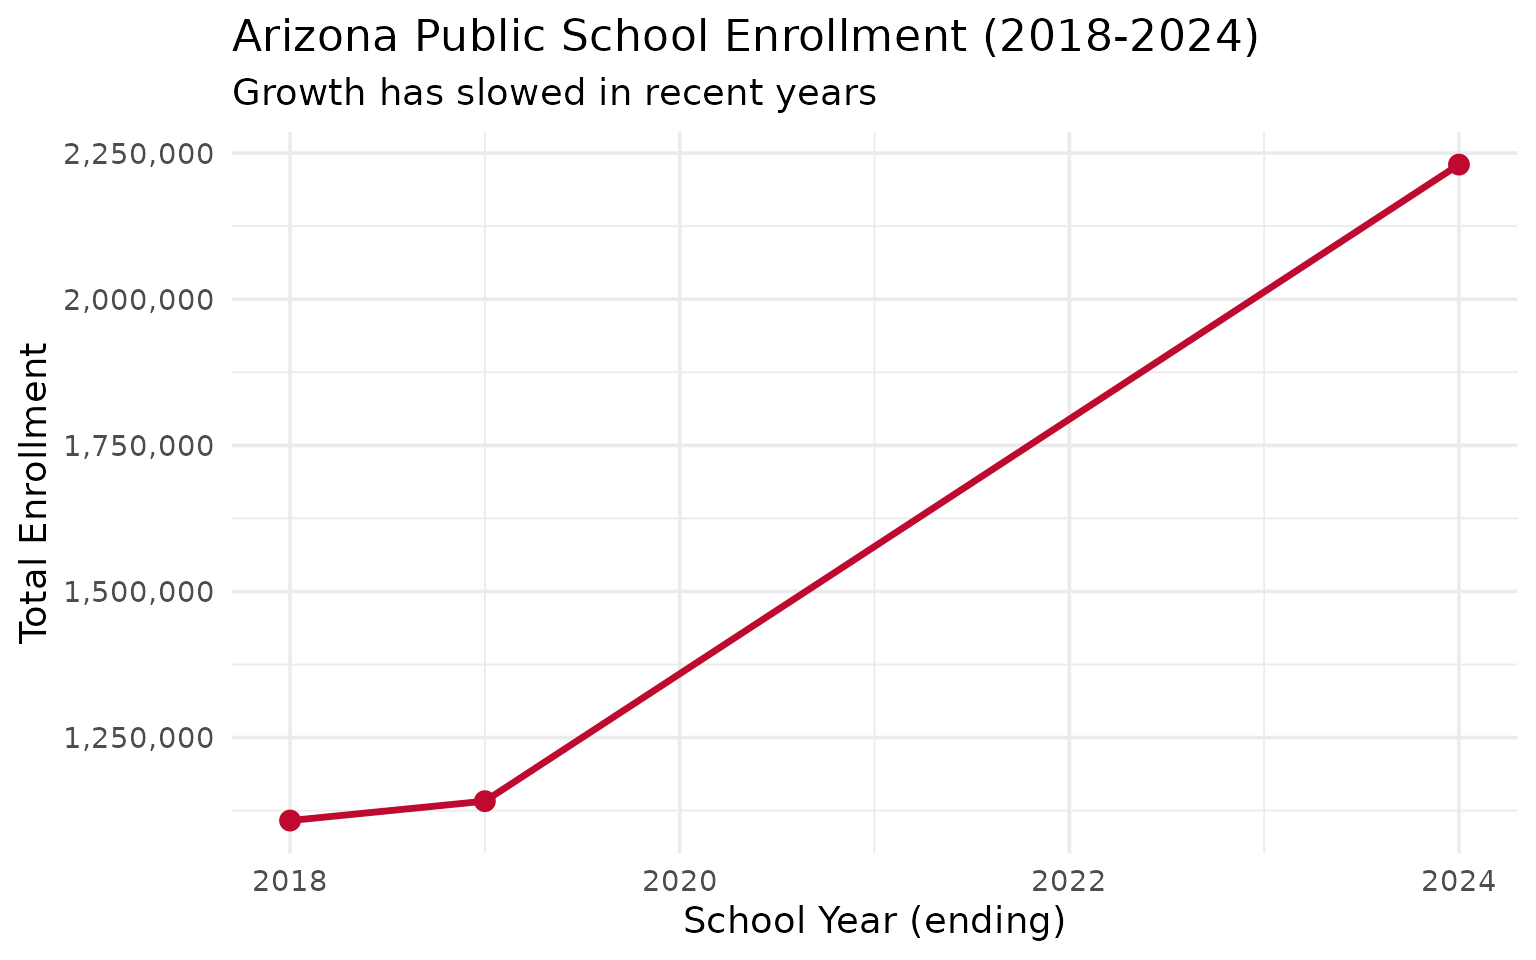
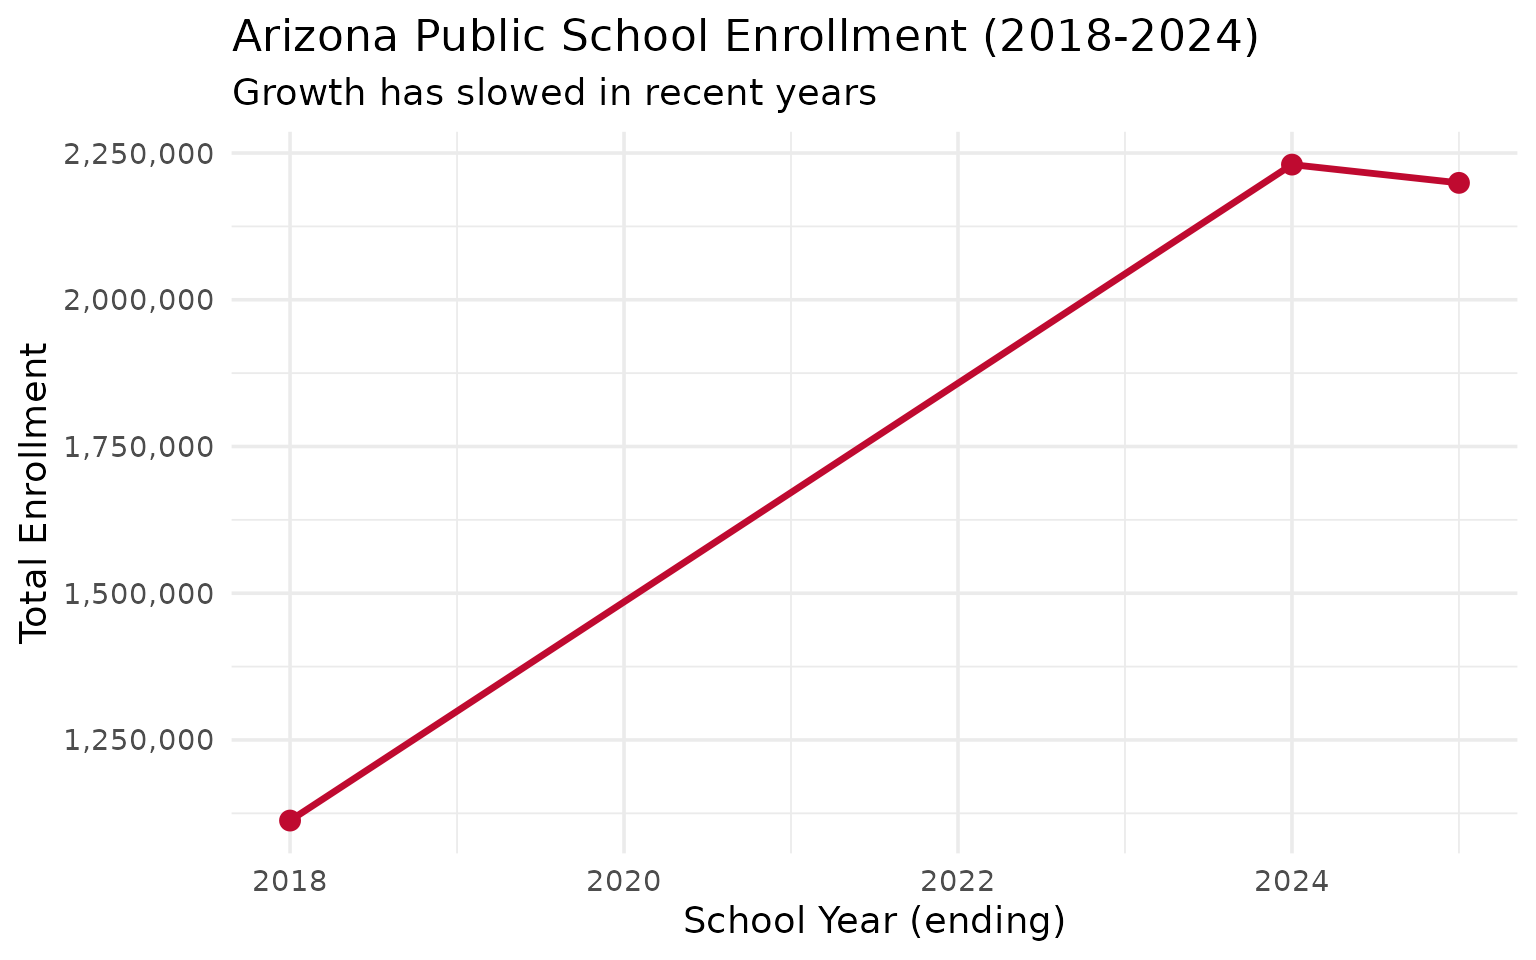
Deploying to gh-pages from @ almartin82/azschooldata@f649c9d4ab868ab28faf0e139d4a64b1dc54043c 🚀

diff --git a/articles/enrollment_simple.html b/articles/enrollment_simple.html
@@ -73,15 +73,15 @@
 <span><span class="fu"><a href="https://ggplot2.tidyverse.org/reference/get_theme.html" class="external-link">theme_set</a></span><span class="op">(</span><span class="fu"><a href="https://ggplot2.tidyverse.org/reference/ggtheme.html" class="external-link">theme_minimal</a></span><span class="op">(</span>base_size <span class="op">=</span> <span class="fl">14</span><span class="op">)</span><span class="op">)</span></span></code></pre></div>
 <p>This vignette explores Arizona’s public school enrollment data.</p>
 <blockquote>
-<p><strong>Note:</strong> Currently available for years 2018, 2019, and
-2024 only.</p>
+<p><strong>Note:</strong> Currently available for years 2018, 2024, and
+2025. Years 2019-2023 are not available as Excel downloads.</p>
 </blockquote>
 <hr>
 <div class="section level2">
 <h2 id="statewide-enrollment-trends">Statewide Enrollment Trends<a class="anchor" aria-label="anchor" href="#statewide-enrollment-trends"></a>
 </h2>
 <div class="sourceCode" id="cb2"><pre class="downlit sourceCode r">
-<code class="sourceCode R"><span><span class="va">enr</span> <span class="op">&lt;-</span> <span class="fu"><a href="../reference/fetch_enr_multi.html">fetch_enr_multi</a></span><span class="op">(</span><span class="fu"><a href="https://rdrr.io/r/base/c.html" class="external-link">c</a></span><span class="op">(</span><span class="fl">2018</span>, <span class="fl">2019</span>, <span class="fl">2024</span><span class="op">)</span><span class="op">)</span></span>
+<code class="sourceCode R"><span><span class="va">enr</span> <span class="op">&lt;-</span> <span class="fu"><a href="../reference/fetch_enr_multi.html">fetch_enr_multi</a></span><span class="op">(</span><span class="fu"><a href="https://rdrr.io/r/base/c.html" class="external-link">c</a></span><span class="op">(</span><span class="fl">2018</span>, <span class="fl">2024</span>, <span class="fl">2025</span><span class="op">)</span><span class="op">)</span></span>
 <span></span>
 <span><span class="va">state_totals</span> <span class="op">&lt;-</span> <span class="va">enr</span> <span class="op">|&gt;</span></span>
 <span>  <span class="fu"><a href="https://dplyr.tidyverse.org/reference/filter.html" class="external-link">filter</a></span><span class="op">(</span><span class="va">is_state</span>, <span class="va">subgroup</span> <span class="op">==</span> <span class="st">"total_enrollment"</span>, <span class="va">grade_level</span> <span class="op">==</span> <span class="st">"TOTAL"</span><span class="op">)</span> <span class="op">|&gt;</span></span>
@@ -91,9 +91,9 @@
 <span></span>
 <span><span class="va">state_totals</span></span>
 <span><span class="co">#&gt;   end_year n_students  change pct_change</span></span>
-<span><span class="co">#&gt; 1     2018    1108023      NA         NA</span></span>
-<span><span class="co">#&gt; 2     2019    1141209   33186       3.00</span></span>
-<span><span class="co">#&gt; 3     2024    2230271 1089062      95.43</span></span></code></pre></div>
+<span><span class="co">#&gt; 1     2018    1112682      NA         NA</span></span>
+<span><span class="co">#&gt; 2     2024    2230271 1117589     100.44</span></span>
+<span><span class="co">#&gt; 3     2025    2199141  -31130      -1.40</span></span></code></pre></div>
 <div class="sourceCode" id="cb3"><pre class="downlit sourceCode r">
 <code class="sourceCode R"><span><span class="fu"><a href="https://ggplot2.tidyverse.org/reference/ggplot.html" class="external-link">ggplot</a></span><span class="op">(</span><span class="va">state_totals</span>, <span class="fu"><a href="https://ggplot2.tidyverse.org/reference/aes.html" class="external-link">aes</a></span><span class="op">(</span>x <span class="op">=</span> <span class="va">end_year</span>, y <span class="op">=</span> <span class="va">n_students</span><span class="op">)</span><span class="op">)</span> <span class="op">+</span></span>
 <span>  <span class="fu"><a href="https://ggplot2.tidyverse.org/reference/geom_path.html" class="external-link">geom_line</a></span><span class="op">(</span>linewidth <span class="op">=</span> <span class="fl">1.2</span>, color <span class="op">=</span> <span class="st">"#BF0A30"</span><span class="op">)</span> <span class="op">+</span></span>
@@ -119,11 +119,11 @@
 <span></span>
 <span><span class="va">gender_by_year</span></span>
 <span><span class="co">#&gt; <span style="color: #949494;"># A tibble: 3 × 3</span></span></span>
-<span><span class="co">#&gt;   end_year  male  female</span></span>
-<span><span class="co">#&gt;      <span style="color: #949494; font-style: italic;">&lt;dbl&gt;</span> <span style="color: #949494; font-style: italic;">&lt;dbl&gt;</span>   <span style="color: #949494; font-style: italic;">&lt;dbl&gt;</span></span></span>
-<span><span class="co">#&gt; <span style="color: #BCBCBC;">1</span>     <span style="text-decoration: underline;">2</span>018     0 1<span style="text-decoration: underline;">485</span>248</span></span>
-<span><span class="co">#&gt; <span style="color: #BCBCBC;">2</span>     <span style="text-decoration: underline;">2</span>019     0 1<span style="text-decoration: underline;">467</span>813</span></span>
-<span><span class="co">#&gt; <span style="color: #BCBCBC;">3</span>     <span style="text-decoration: underline;">2</span>024     0 1<span style="text-decoration: underline;">305</span>480</span></span></code></pre></div>
+<span><span class="co">#&gt;   end_year    male  female</span></span>
+<span><span class="co">#&gt;      <span style="color: #949494; font-style: italic;">&lt;dbl&gt;</span>   <span style="color: #949494; font-style: italic;">&lt;dbl&gt;</span>   <span style="color: #949494; font-style: italic;">&lt;dbl&gt;</span></span></span>
+<span><span class="co">#&gt; <span style="color: #BCBCBC;">1</span>     <span style="text-decoration: underline;">2</span>018  <span style="text-decoration: underline;">570</span>750  <span style="text-decoration: underline;">541</span>889</span></span>
+<span><span class="co">#&gt; <span style="color: #BCBCBC;">2</span>     <span style="text-decoration: underline;">2</span>024 1<span style="text-decoration: underline;">136</span>269 1<span style="text-decoration: underline;">093</span>826</span></span>
+<span><span class="co">#&gt; <span style="color: #BCBCBC;">3</span>     <span style="text-decoration: underline;">2</span>025 1<span style="text-decoration: underline;">119</span>644 1<span style="text-decoration: underline;">079</span>300</span></span></code></pre></div>
 <div class="sourceCode" id="cb5"><pre class="downlit sourceCode r">
 <code class="sourceCode R"><span><span class="va">enr</span> <span class="op">|&gt;</span></span>
 <span>  <span class="fu"><a href="https://dplyr.tidyverse.org/reference/filter.html" class="external-link">filter</a></span><span class="op">(</span><span class="va">is_state</span>, <span class="va">grade_level</span> <span class="op">==</span> <span class="st">"TOTAL"</span>,</span>
@@ -147,9 +147,10 @@
 </h2>
 <p>This package uses data from the Arizona Department of Education
 October 1 enrollment reports.</p>
-<p><strong>Currently available years:</strong> 2018, 2019, 2024</p>
-<p><strong>Planned years:</strong> 2020-2023 (Cloudflare protection
-preventing automated downloads)</p>
+<p><strong>Currently available years:</strong> 2018, 2024, 2025</p>
+<p><strong>Missing years:</strong> 2019-2023 (Excel files not available
+as automated downloads - Cloudflare protection blocks programmatic
+access)</p>
 <p><strong>Data included:</strong> - State totals by grade level and
 gender - District and school totals - County-level aggregates</p>
 <p>For more information, see the package README and function

diff --git a/articles/enrollment_simple.md b/articles/enrollment_simple.md
@@ -11,14 +11,15 @@ theme_set(theme_minimal(base_size = 14))
 
 This vignette explores Arizona’s public school enrollment data.
 
-> **Note:** Currently available for years 2018, 2019, and 2024 only.
+> **Note:** Currently available for years 2018, 2024, and 2025. Years
+> 2019-2023 are not available as Excel downloads.
 
 ------------------------------------------------------------------------
 
 ## Statewide Enrollment Trends
 
 ``` r
-enr <- fetch_enr_multi(c(2018, 2019, 2024))
+enr <- fetch_enr_multi(c(2018, 2024, 2025))
 
 state_totals <- enr |>
   filter(is_state, subgroup == "total_enrollment", grade_level == "TOTAL") |>
@@ -28,9 +29,9 @@ state_totals <- enr |>
 
 state_totals
 #>   end_year n_students  change pct_change
-#> 1     2018    1108023      NA         NA
-#> 2     2019    1141209   33186       3.00
-#> 3     2024    2230271 1089062      95.43
+#> 1     2018    1112682      NA         NA
+#> 2     2024    2230271 1117589     100.44
+#> 3     2025    2199141  -31130      -1.40
 ```
 
 ``` r
@@ -59,11 +60,11 @@ gender_by_year <- enr |>
 
 gender_by_year
 #> # A tibble: 3 × 3
-#>   end_year  male  female
-#>      <dbl> <dbl>   <dbl>
-#> 1     2018     0 1485248
-#> 2     2019     0 1467813
-#> 3     2024     0 1305480
+#>   end_year    male  female
+#>      <dbl>   <dbl>   <dbl>
+#> 1     2018  570750  541889
+#> 2     2024 1136269 1093826
+#> 3     2025 1119644 1079300
 ```
 
 ``` r
@@ -91,10 +92,10 @@ enr |>
 This package uses data from the Arizona Department of Education October
 1 enrollment reports.
 
-**Currently available years:** 2018, 2019, 2024
+**Currently available years:** 2018, 2024, 2025
 
-**Planned years:** 2020-2023 (Cloudflare protection preventing automated
-downloads)
+**Missing years:** 2019-2023 (Excel files not available as automated
+downloads - Cloudflare protection blocks programmatic access)
 
 **Data included:** - State totals by grade level and gender - District
 and school totals - County-level aggregates
